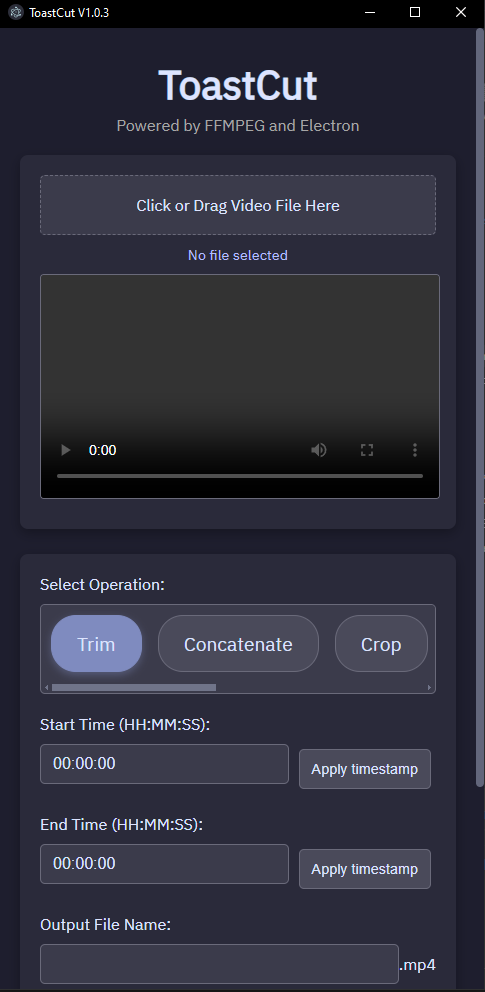
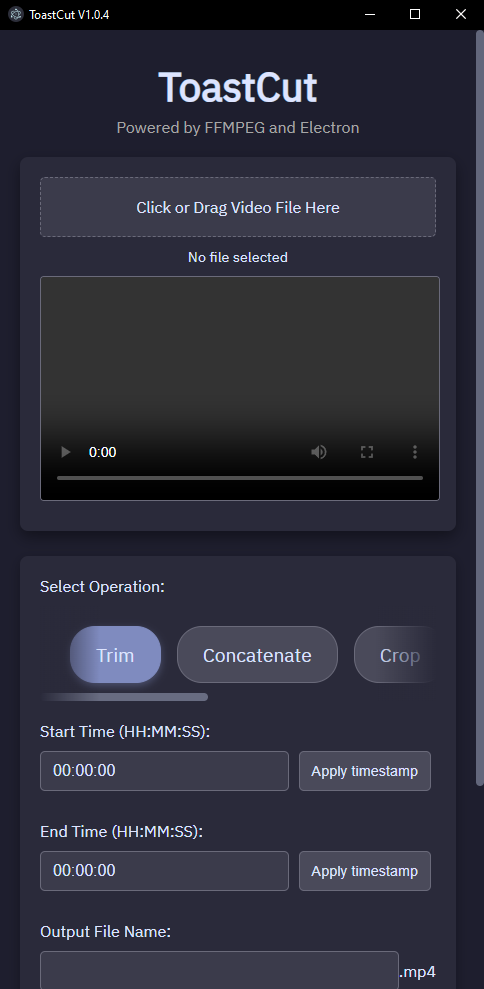
GUI Styling/polishing

diff --git a/assets/style.css b/assets/style.css
@@ -1,19 +1,22 @@
 /* Define CSS Custom Properties (Variables) */
 :root {
+    --color-header1: #dde4ff; /* Lighter Accent for Headings */
+    --color-header2: #a6a6a6; /* Lighter Grey Text/Border */
+
     --color-bg-dark: #1e1e2e; /* Body Background */
-    --color-text-light: #dde4ff; /* Main Light Text */
-    --color-accent-heading: #dde4ff; /* Lighter Accent for Headings */
-    --color-grey-text: #a6a6a6; /* Lighter Grey Text/Border */
     --color-bg-card: #2a2a3a; /* Card Background */
-    --color-bg-input: #3b3b4b; /* Input/Container Background */
-    --color-border-dark: #6a6a7a; /* Darker Border/Dash */
-    --color-item-default: #4a4a5a; /* Operation Item/Button Default */
-    --color-border-light: #8b8b9b; /* Lighter Border/Hover */
-    --color-accent-filename: #b4befe; /* Filename/Accent Color */
-    --color-accent-selected: #7f8bbf; /* Selected Item/Run Button */
-    --color-accent-selected-hover: #6a76b2; /* Selected Item/Run Button Hover */
+    --color-text: #dde4ff; /* Main Text */
+
+    --color-border: #6a6a7a; /* Border of everything */
+    --color-border-selected: #8b8b9b; /* Lighter Border/Hover */
+    --color-carousel-item: #4a4a5a; /* Operation Item/Button Default */
+    --color-selected: #7f8bbf; /* Selected Item/Run Button */
+    --color-selected-hover: #6a76b2; /* Selected Item/Run Button Hover */
     --color-success: #8aff8a; /* Progress Success Text */
     --color-error: red; /* Error Text */
+    --color-bg-input: #3b3b4b;
+    /* for use in rgba() */
+    --color-bg-input-rgb: 59, 59, 75;
 }
 
 @font-face {
@@ -38,7 +41,7 @@ body {
   align-items: center;
   padding: 20px;
   background: var(--color-bg-dark);
-  color: var(--color-text-light);
+  color: var(--color-text);
   font-family: "IBM Plex Sans", sans-serif;
   min-height: 100vh;
 }
@@ -51,7 +54,7 @@ body {
 h1 {
   font-size: 2.5em;
   margin-bottom: 5px;
-  color: var(--color-accent-heading);
+  color: var(--color-title);
   text-align: center;
   margin-top: 10px;
 }
@@ -60,7 +63,7 @@ h3 {
   margin-bottom: 20px;
   font-weight: 400;
   font-size: 1em;
-  color: var(--color-grey-text);
+  color: var(--color-header2);
   text-align: center;
 }
 
@@ -82,7 +85,7 @@ label {
   display: block;
   margin-bottom: 10px;
   font-size: 1.0em;
-  color: var(--color-text-light);
+  color: var(--color-text);
   font-weight: 500;
 }
 
@@ -101,8 +104,8 @@ label {
     align-items: center;
     cursor: pointer;
     background-color: var(--color-bg-input);
-    color: var(--color-text-light);
-    border: 1px dashed var(--color-border-dark);
+    color: var(--color-text);
+    border: 1px dashed var(--color-border);
     padding: 12px 15px;
     border-radius: 5px;
     transition: background-color 0.3s ease, border-color 0.3s ease;
@@ -116,8 +119,8 @@ label {
     pointer-events: none; /* Crucial: Allow mouse events to pass through the label to the input */
 }
 .file-input-container .file-input-label:hover { /* Added .file-input-container */
-    background-color: var(--color-item-default);
-    border-color: var(--color-border-light);
+    background-color: var(--color-carousel-item);
+    border-color: var(--color-border-selected);
 }
 
 .file-input-container #inputFile { /* Added .file-input-container */
@@ -134,7 +137,7 @@ label {
 /* File Name Display (Specific to the top file input) */
 .card #file-name-card {
     font-size: 0.9em;
-    color: var(--color-accent-filename);
+    color: var(--color-text);
     margin-top: 5px;
     text-align: center;
 }
@@ -142,8 +145,8 @@ label {
 
 #videoPreview {
   background-color: var(--color-bg-input);
-  color: var(--color-text-light);
-  border: 1px solid var(--color-border-dark);
+  color: var(--color-text);
+  border: 1px solid var(--color-border);
   border-radius: 5px;
   font-size: 17px;
   text-align: center;
@@ -154,7 +157,7 @@ label {
   display: block;
   margin: 10px auto;
   border-radius: 4px;
-  border: 1px solid var(--color-border-dark);
+  border: 1px solid var(--color-border);
 }
 
 /* Style for the original hidden select */
@@ -162,21 +165,51 @@ label {
     display: none;
 }
 
+/* 1. Make the wrapper a positioning context */
+#operation-carousel-wrapper {
+  position: relative;
+  overflow: hidden;         /* hide overflowing gradients */
+}
+
+/* 3. Create two overlay gradients via pseudo-elements */
+#operation-carousel-wrapper::before,
+#operation-carousel-wrapper::after {
+  content: "";
+  position: absolute;
+  top: 0;
+  bottom: 0;
+  width: 60px;              /* how wide the fade should be */
+  pointer-events: none;     /* let clicks pass through */
+  z-index: 2;               /* above carousel items */
+}
+
+/* 4. Left fade: transparent → background */
+#operation-carousel-wrapper::before {
+  left: 0;
+  background: linear-gradient(to right,
+    var(--color-bg-card) 0%,
+    rgba( var(--color-bg-input-rgb), 0 ) 100%
+  );
+}
+
+/* 5. Right fade: background → transparent */
+#operation-carousel-wrapper::after {
+  right: 0;
+  background: linear-gradient(to left,
+    var(--color-bg-card) 0%,
+    rgba( var(--color-bg-input-rgb), 0 ) 100%
+  );
+}
 
 /* --- Simplified Horizontal List Styles --- */
 #operation-carousel {
     display: flex;
     overflow-x: auto;
-    -webkit-overflow-scrolling: touch;
-    padding: 10px 0;
+    padding: 10px 20px;
     margin-top: 10px;
-    background-color: var(--color-bg-input);
-    border: 1px solid var(--color-border-dark);
-    border-radius: 5px;
-
-    /* Custom Scrollbar Styling */
-    scrollbar-width: thin;
-    scrollbar-color: rgba(166, 173, 200, 0.5) transparent;
+    scroll-behavior: smooth; /* Enables smooth scrolling animation */
+    scroll-snap-type: x mandatory; /* Enables snapping on the x-axis */
+    scroll-padding-left: 20px;
 }
 
 /* Custom Scrollbar Styling for Chrome, Edge, and Safari */
@@ -198,11 +231,11 @@ label {
     flex: 0 0 auto;
     display: inline-block;
     padding: 8px 12px;
-    margin: 5px 5px 5px 0;
+    margin: 0px 5px 10px 0;
     font-size: 0.9em;
-    background-color: var(--color-item-default);
-    color: var(--color-text-light);
-    border: 1px solid var(--color-border-dark);
+    background-color: var(--color-carousel-item);
+    color: var(--color-text);
+    border: 1px solid var(--color-border);
     border-radius: 5px;
     cursor: pointer;
     transition: background-color 0.3s ease, border-color 0.3s ease, transform 0.1s ease;
@@ -219,6 +252,7 @@ label {
     margin: 0 8px;
     font-size: 1.2em;
     border-radius: 25px;
+    scroll-snap-align: center; /* Defines the snap point at the start edge of each item */
 }
 
 .operation-item:first-child {
@@ -233,7 +267,7 @@ label {
 #operationDetails button:hover,
 #operationDetails input[type="button"]:hover {
     background-color: var(--color-bg-input);
-    border-color: var(--color-border-light);
+    border-color: var(--color-border-selected);
 }
 
 /* Active styles for items and buttons */
@@ -242,9 +276,6 @@ label {
 #operationDetails input[type="button"]:active {
     transform: scale(0.98);
 }
-
-
-/* --- End Simplified Horizontal List Styles --- */
 
 
 /* Styling for dynamic elements in operationDetails - Card */
@@ -262,17 +293,17 @@ label {
     padding: 10px 12px; /* Add padding */
     margin-bottom: 10px; /* Add bottom margin */
     font-size: 1em; /* Set font size */
-    border: 1px solid var(--color-border-dark); /* Apply border */
+    border: 1px solid var(--color-border); /* Apply border */
     border-radius: 5px; /* Apply border-radius */
     background-color: var(--color-bg-input); /* Apply background color */
-    color: var(--color-text-light); /* Apply text color */
+    color: var(--color-text); /* Apply text color */
     text-align: left; /* Reset text alignment if needed, or keep center */
  }
 
 
  #operationDetails input:focus {
     outline: none;
-    border-color: var(--color-accent-heading);
+    border-color: var(--color-title);
     box-shadow: 0 0 0 2px rgba(166, 173, 200, 0.3);
   }
 
@@ -287,7 +318,6 @@ label {
     height: auto; /* Allow natural height */
 }
 
-
 .run-button-container {
     text-align: center;
     margin-top: 10px;
@@ -296,9 +326,9 @@ label {
 /* Selected Item / Run Button Style */
 .operation-item.selected,
 .runbtn {
-    background-color: var(--color-accent-selected);
-    color: var(--color-text-light);
-    border-color: var(--color-accent-selected);
+    background-color: var(--color-selected);
+    color: var(--color-text);
+    border-color: var(--color-selected);
     box-shadow: 0 3px 8px rgba(127, 139, 191, 0.4);
 }
 
@@ -314,7 +344,7 @@ label {
 }
 
 .runbtn:hover {
-  background-color: var(--color-accent-selected-hover);
+  background-color: var(--color-selected-hover);
   box-shadow: 0 5px 12px rgba(127, 139, 191, 0.5);
   transform: translateY(-1px);
 }

diff --git a/index.html b/index.html
@@ -3,7 +3,7 @@
 <head>
   <meta charset="UTF-8">
   <meta name="viewport" content="width=device-width, initial-scale=1.0">
-  <title>ToastCut V1.0.3</title>
+  <title>ToastCut V1.0.4</title>
   <link rel="stylesheet" href="./assets/style.css">
 </head>
 <body>
@@ -38,14 +38,16 @@
             <option value="BITRATE">Compress</option>
         </select>
 
-        <div id="operation-carousel">
-            </div>
+        <div id="operation-carousel-wrapper">
+  <div id="operation-carousel">
+  </div>
+</div>
 
         <div id="operationDetails" style="margin-top: 20px;"> </div>
     </div>
 
     <div class="card"> <div class="run-button-container">
-            <button class="runbtn" id="runButton">Start Editing</button>
+            <button class="runbtn" id="runButton">Run FFmpeg</button>
         </div>
 
         <div id="progress"></div>
@@ -59,6 +61,7 @@
         const operationDetailsElement = document.getElementById('operationDetails'); // Get operationDetails div
         const inputFileElement = document.getElementById('inputFile'); // Get the file input
         const fileNameCardElement = document.getElementById('file-name-card'); // Get the file name display div
+        const runButtonElement = document.getElementById('runButton'); // Get the run button
 
 
         // Function to render carousel items based on select options
@@ -90,12 +93,6 @@
                     const changeEvent = new Event('change', { bubbles: true });
                     selectElement.dispatchEvent(changeEvent);
 
-                    // Scroll the operationDetails div into view smoothly
-                    operationDetailsElement.scrollIntoView({
-                        behavior: 'smooth', // Use smooth scrolling
-                        block: 'start'     // Align the top of the element to the top of the viewport
-                    });
-
                     // Clearing operationDetails is now handled by the fade-out in renderer.js
                 });
 
@@ -111,6 +108,26 @@
                 fileNameCardElement.textContent = 'No file selected';
             }
         });
+
+        // --- Run Button Click Listener ---
+        // Add a listener to the Run FFmpeg button to scroll to the bottom
+        runButtonElement.addEventListener('click', () => {
+            // Scrolls the entire window to the bottom of the document body with a smooth animation
+            window.scrollTo({
+                top: document.body.scrollHeight,
+                behavior: 'smooth'
+            });
+        });
+
+        // --- Mouse Wheel Scroll Listener for Carousel ---
+        carouselElement.addEventListener('wheel', (event) => {
+            // Prevent the default vertical scroll behavior
+            event.preventDefault();
+
+            // Scroll the carousel horizontally based on the vertical wheel movement
+            carouselElement.scrollLeft += event.deltaY;
+        });
+
 
         // Initial render of the carousel
         renderCarousel();

diff --git a/operations/bitrate.js b/operations/bitrate.js
@@ -15,20 +15,22 @@ function getUIHtml() {
             <input type="range" min="0" max="51" value="23" class="slider w-full" id="bitrateSelect">
         </div>
         <p class="text-sm text-gray-600 mt-1">Lower CRF means higher quality and larger file size (0 is lossless, ~23 is default, 51 is worst quality).</p>
+        <br/>
+        <div style="display: flex; justify-content: space-between; gap: 20px;">
+            <div id="inputInfo" class="mt-4 text-sm text-gray-700" style="flex: 1;">
+                <strong>Input Info:</strong><br>
+                File Size: <span id="inputSize">N/A</span><br>
+                Duration: <span id="inputDuration">N/A</span><br>
+                Video Bitrate: <span id="inputVideoBitrate">N/A</span><br>
+                Overall Bitrate: <span id="inputOverallBitrate">N/A</span>
+            </div>
+            <br>
 
-        <div id="inputInfo" class="mt-4 text-sm text-gray-700">
-            <strong>Input Info:</strong><br>
-            File Size: <span id="inputSize">N/A</span><br>
-            Duration: <span id="inputDuration">N/A</span><br>
-            Video Bitrate: <span id="inputVideoBitrate">N/A</span><br>
-            Overall Bitrate: <span id="inputOverallBitrate">N/A</span>
-        </div>
-        <br>
-
-        <div id="outputEstimate" class="mt-4 text-sm text-gray-700">
-            <strong>Estimated Output:</strong><br>
-            Estimated Size: <span id="estimatedSize">N/A</span><br>
-            Estimated Video Bitrate: <span id="estimatedVideoBitrate">N/A</span>
+            <div id="outputEstimate" class="mt-4 text-sm text-gray-700" style="flex: 1;">
+                <strong>Estimated Output:</strong><br>
+                Estimated Size: <span id="estimatedSize">N/A</span><br>
+                Estimated Video Bitrate: <span id="estimatedVideoBitrate">N/A</span>
+            </div>
         </div>
         <br>
 
